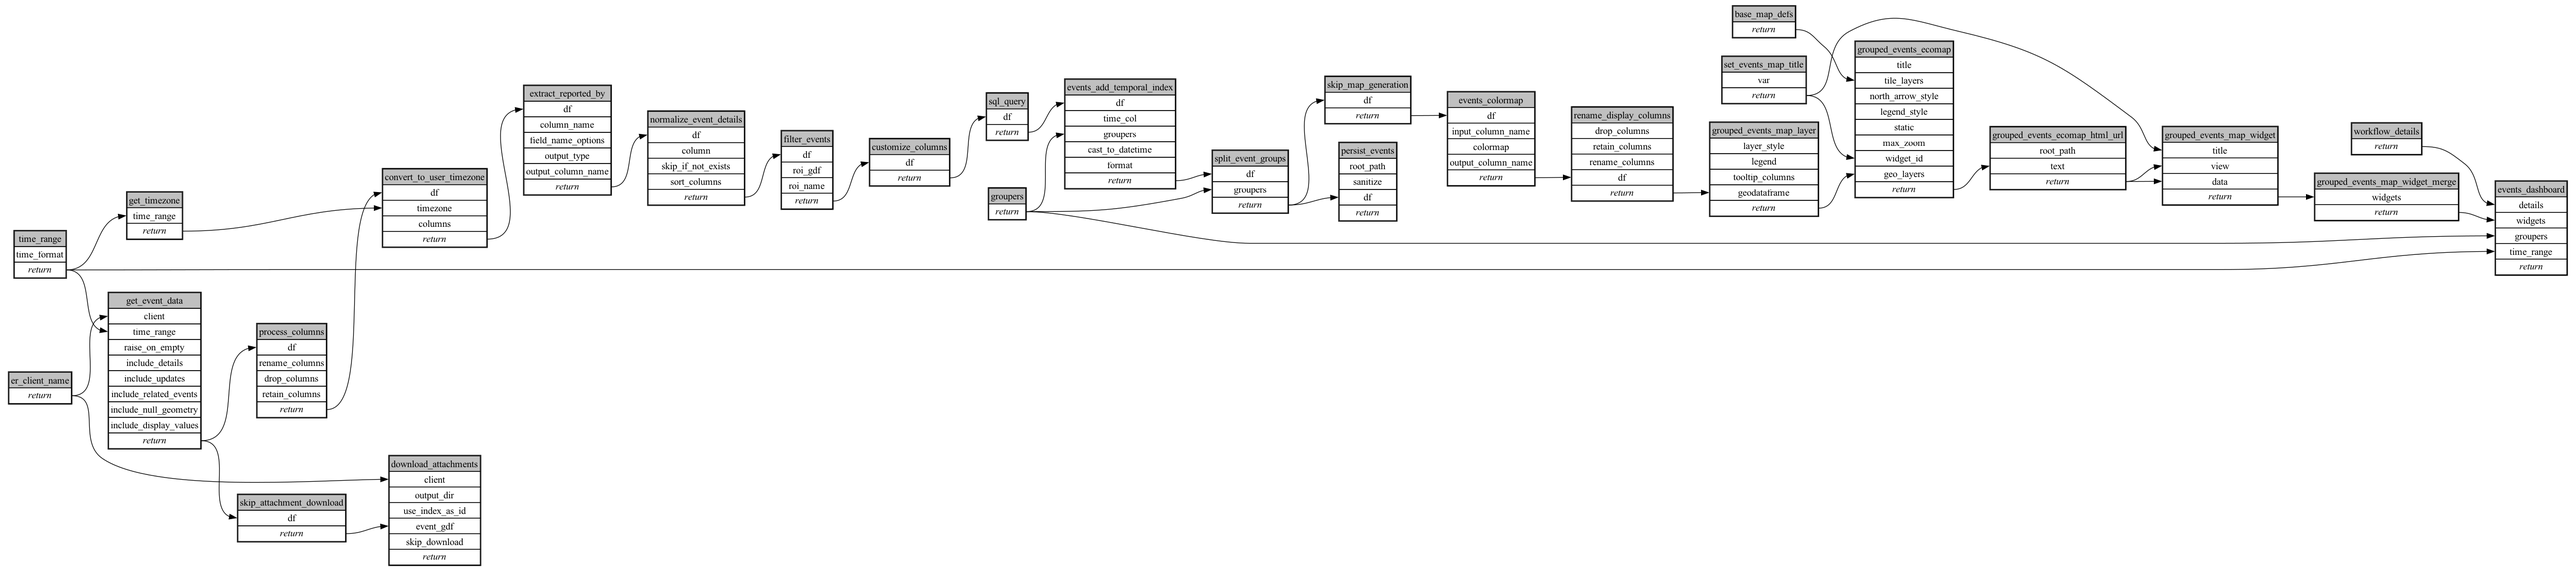
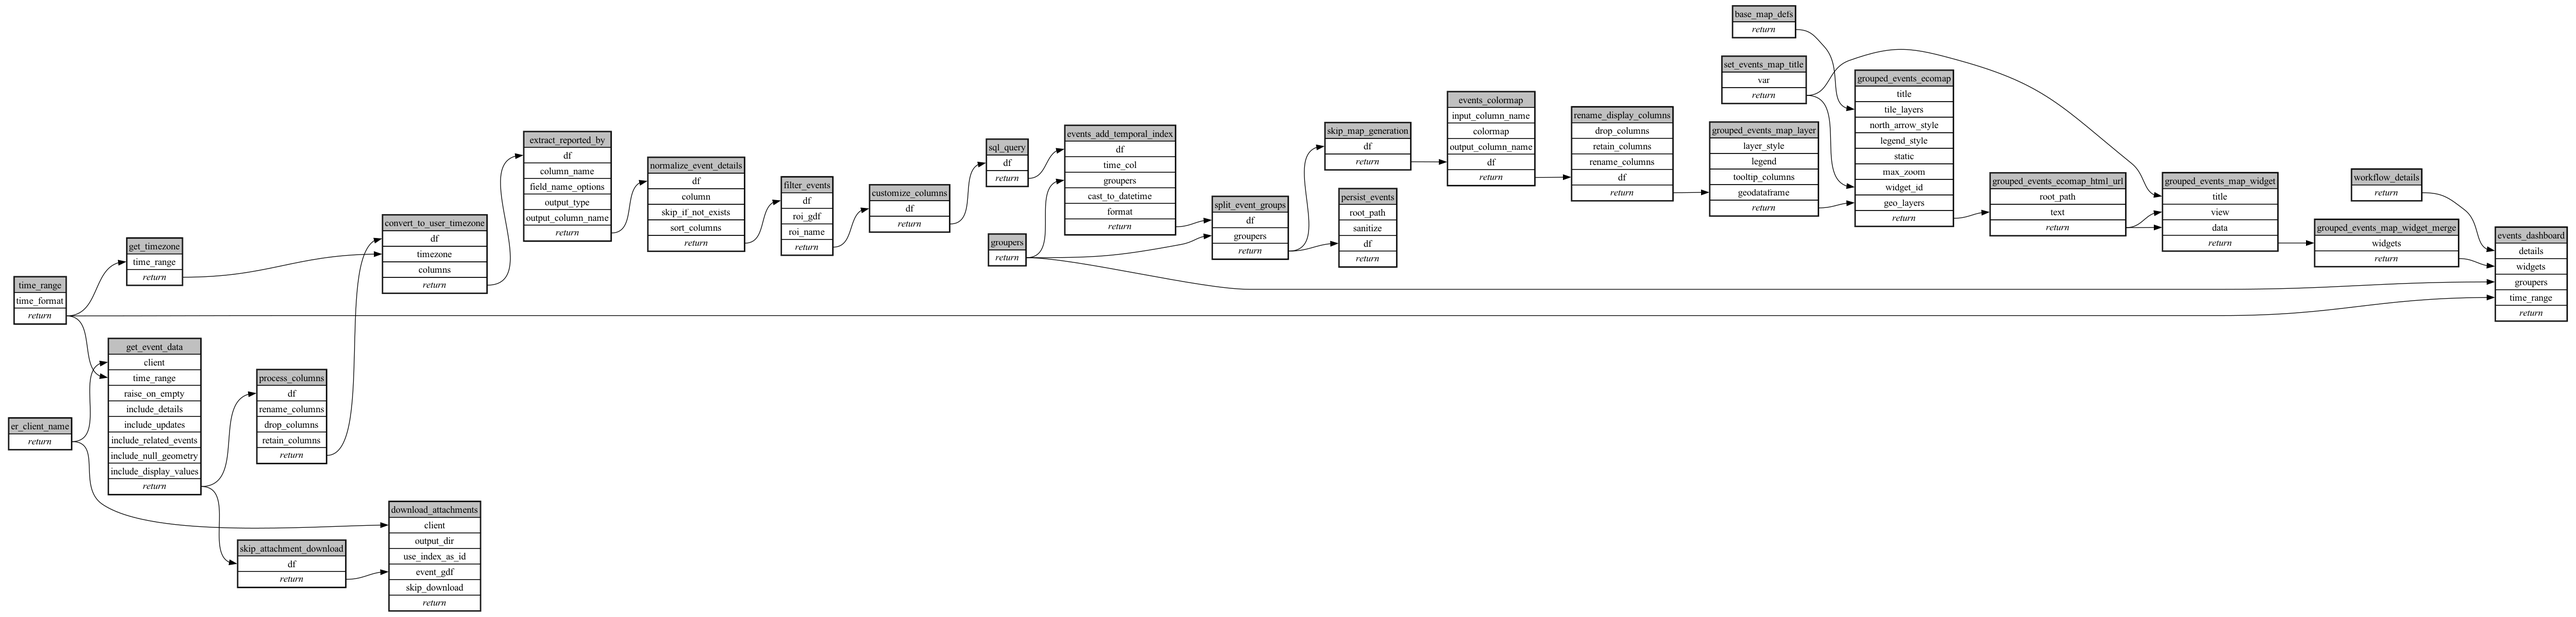
fix spec

diff --git a/workflows/download-events/ecoscope-workflows-download-events-workflow/ecoscope_workflows_download_events_workflow/dags/run_async_mock_io.py b/workflows/download-events/ecoscope-workflows-download-events-workflow/ecoscope_workflows_download_events_workflow/dags/run_async_mock_io.py
@@ -110,7 +110,7 @@ def main(params: Params):
         "split_event_groups": ["events_add_temporal_index", "groupers"],
         "persist_events": ["split_event_groups"],
         "skip_map_generation": ["split_event_groups"],
-        "events_colormap": ["sql_query", "skip_map_generation"],
+        "events_colormap": ["skip_map_generation"],
         "rename_display_columns": ["events_colormap"],
         "set_events_map_title": [],
         "base_map_defs": [],
@@ -540,7 +540,6 @@ def main(params: Params):
             )
             .set_executor("lithops"),
             partial={
-                "df": DependsOn("sql_query"),
                 "input_column_name": "event_type",
                 "colormap": "tab20b",
                 "output_column_name": "event_type_colormap",

diff --git a/workflows/download-events/ecoscope-workflows-download-events-workflow/ecoscope_workflows_download_events_workflow/dags/run_async.py b/workflows/download-events/ecoscope-workflows-download-events-workflow/ecoscope_workflows_download_events_workflow/dags/run_async.py
@@ -92,7 +92,7 @@ def main(params: Params):
         "split_event_groups": ["events_add_temporal_index", "groupers"],
         "persist_events": ["split_event_groups"],
         "skip_map_generation": ["split_event_groups"],
-        "events_colormap": ["sql_query", "skip_map_generation"],
+        "events_colormap": ["skip_map_generation"],
         "rename_display_columns": ["events_colormap"],
         "set_events_map_title": [],
         "base_map_defs": [],
@@ -522,7 +522,6 @@ def main(params: Params):
             )
             .set_executor("lithops"),
             partial={
-                "df": DependsOn("sql_query"),
                 "input_column_name": "event_type",
                 "colormap": "tab20b",
                 "output_column_name": "event_type_colormap",

diff --git a/workflows/download-events/ecoscope-workflows-download-events-workflow/ecoscope_workflows_download_events_workflow/dags/run_sequential.py b/workflows/download-events/ecoscope-workflows-download-events-workflow/ecoscope_workflows_download_events_workflow/dags/run_sequential.py
@@ -452,7 +452,6 @@ def main(params: Params):
             unpack_depth=1,
         )
         .partial(
-            df=sql_query,
             input_column_name="event_type",
             colormap="tab20b",
             output_column_name="event_type_colormap",

diff --git a/workflows/download-events/ecoscope-workflows-download-events-workflow/ecoscope_workflows_download_events_workflow/dags/run_sequential_mock_io.py b/workflows/download-events/ecoscope-workflows-download-events-workflow/ecoscope_workflows_download_events_workflow/dags/run_sequential_mock_io.py
@@ -470,7 +470,6 @@ def main(params: Params):
             unpack_depth=1,
         )
         .partial(
-            df=sql_query,
             input_column_name="event_type",
             colormap="tab20b",
             output_column_name="event_type_colormap",

diff --git a/workflows/download-events/ecoscope-workflows-download-events-workflow/ecoscope_workflows_download_events_workflow/dags/jupytext.py b/workflows/download-events/ecoscope-workflows-download-events-workflow/ecoscope_workflows_download_events_workflow/dags/jupytext.py
@@ -721,7 +721,6 @@ events_colormap = (
         unpack_depth=1,
     )
     .partial(
-        df=sql_query,
         input_column_name="event_type",
         colormap="tab20b",
         output_column_name="event_type_colormap",

diff --git a/workflows/download-events/ecoscope-workflows-download-events-workflow/README.md b/workflows/download-events/ecoscope-workflows-download-events-workflow/README.md
@@ -5,20 +5,20 @@
 
 ```yaml
 # fingerprint:
-artifacts_sha256_basic: 40f1ef32db3c4719bcf8a4fe061f5a66fbe64edf29bcb3da0d1be7fb3e083a9d
-artifacts_sha256_strict: f616bb1d3e282e8e05f49167b145adc25c629a5058af7da3807beab099eaa9d5
+artifacts_sha256_basic: 61d3a8d47c98b71d2bbeea71534c9a7bf7317a2c273090e4e48496dc0fd01451
+artifacts_sha256_strict: 777eafa8ed205867ae0a7f654956117523e0534089001a8865ae09702eb04660
 installed_requirements:
 - channel: https://repo.prefix.dev/ecoscope-workflows/
   name: ecoscope-workflows-core
   version: {version: ==0.19.3}
 - channel: https://repo.prefix.dev/ecoscope-workflows/
   name: ecoscope-workflows-ext-ecoscope
-  version: {version: ==0.20.1.dev3+g7e8c86650}
+  version: {version: ==0.20.1.dev11+gf92d266f0}
 - channel: https://repo.prefix.dev/ecoscope-workflows-custom/
   name: ecoscope-workflows-ext-custom
   version: {version: ==0.0.10}
 params_sha256: 2ce2616b7d6b4cc39f4349750e8a2de102359e2185ce47e95f3fe436d77d42c9
-spec_sha256: dfa90b0481f4243fd3e71b0077e30d362fed59db6472f0c0030ff4e643ff0fa7
+spec_sha256: bc4afc77860780a017e8f19fce0774c2b160afb5f32dfaf669ab4da99b56b08a
 
 ```
 
